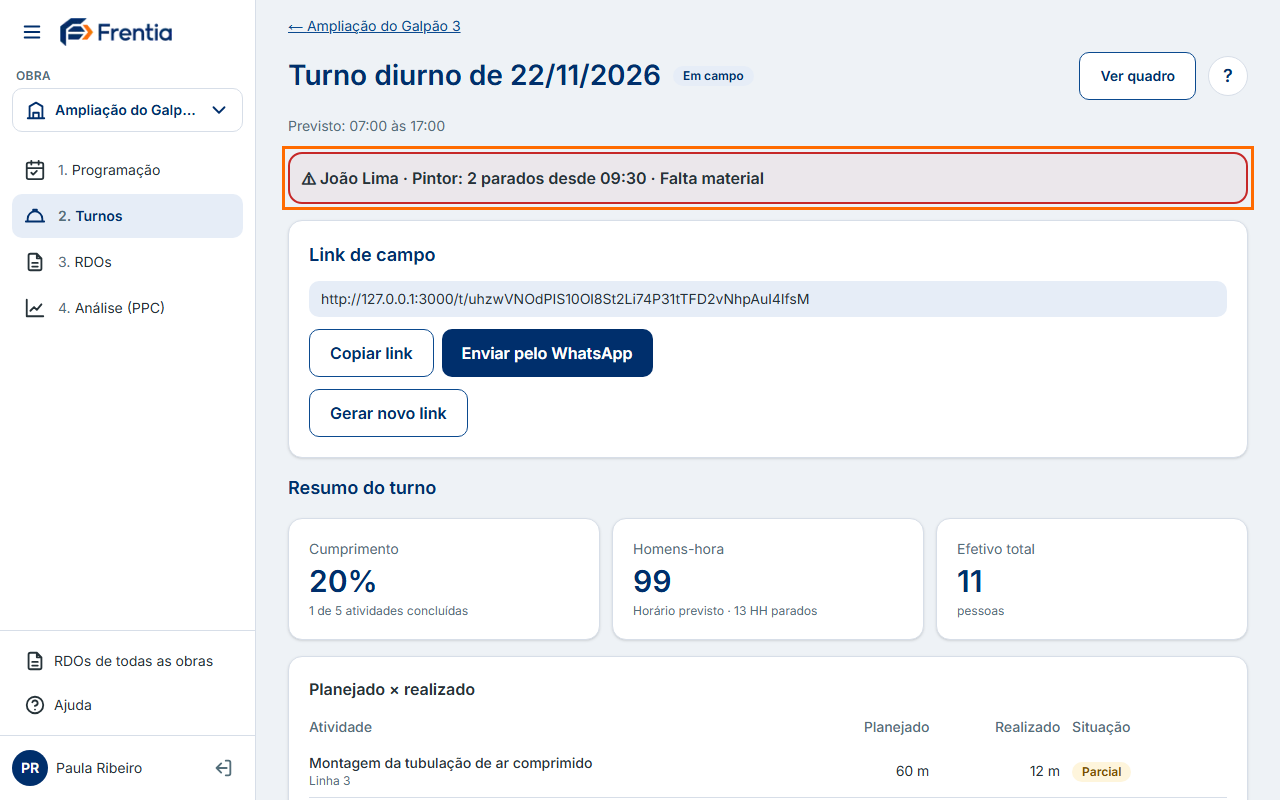
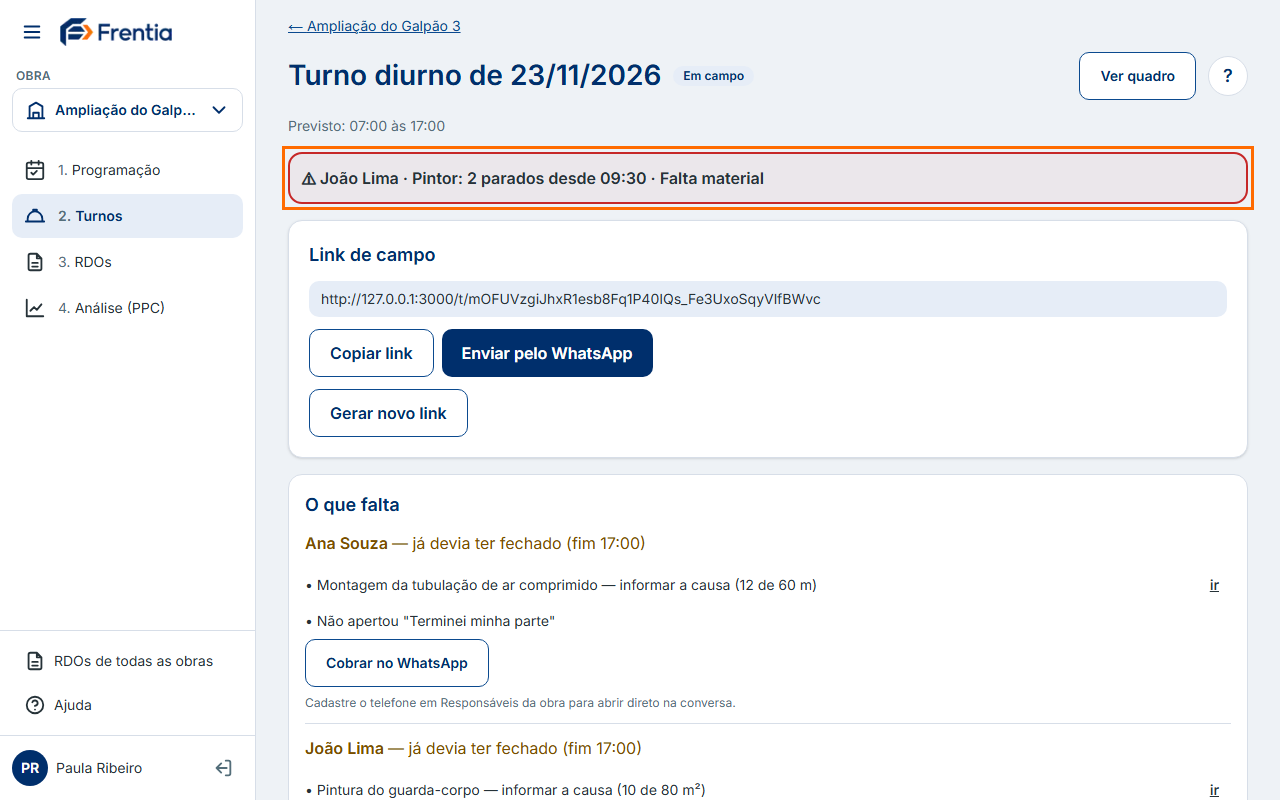
docs(ajuda): o que falta no turno

diff --git a/lib/ajuda/conteudo/durante-o-turno.ts b/lib/ajuda/conteudo/durante-o-turno.ts
@@ -34,6 +34,20 @@ export const duranteOTurno: Capitulo = {
       },
     },
     {
+      id: "o-que-falta",
+      titulo: "Veja o que falta e cobre o responsável",
+      texto: [
+        "No alto da tela do turno, \"O que falta\" mostra, por responsável, o que ainda não foi registrado: atividade sem lançamento, texto contado à IA que não foi lançado e, depois do fim do turno (ou quando a equipe toca \"Terminei minha parte\"), causa não informada e o \"Terminei\" que faltou.",
+        "Enquanto o turno está em andamento, o grupo aparece como \"em andamento\": é normal ainda faltar. Depois do fim, fica em destaque. Toque em \"ir\" para ir direto à atividade.",
+        "\"Cobrar no WhatsApp\" abre a conversa com o responsável e uma mensagem pronta com o que falta e o link de campo dele. Para abrir direto no número, cadastre o telefone em Responsáveis da obra.",
+      ],
+      captura: {
+        alt: "Bloco O que falta no turno, com as pendências por responsável e o botão Cobrar no WhatsApp",
+        alvo: { papel: "region", nome: "O que falta" },
+        dispositivo: "computador",
+      },
+    },
+    {
       id: "servico-extra",
       titulo: "Lance um serviço extra",
       texto: [

diff --git a/lib/ajuda/novidades.ts b/lib/ajuda/novidades.ts
@@ -3,6 +3,11 @@ import type { Novidade } from "./tipos";
 
 export const NOVIDADES: Novidade[] = [
   {
+    data: "2026-11-23",
+    texto: "O que falta: no turno, veja por responsável o que ainda não foi registrado e cobre pelo WhatsApp com um toque.",
+    href: "/ajuda/durante-o-turno#o-que-falta",
+  },
+  {
     data: "2026-11-22",
     texto: "Conte como foi o dia: no link de campo, escreva ou dite e a IA organiza o lançamento para você conferir antes de gravar.",
     href: "/ajuda/campo#contar-dia",

diff --git a/tests/manual/capturas.spec.ts b/tests/manual/capturas.spec.ts
@@ -175,6 +175,7 @@ test("capturas do manual", async ({ browser, page: pl, request }) => {
   // ---------- Durante o turno (planejador) ----------
   await pl.goto(turnoUrl);
   await fotografar(pl, "durante-o-turno", "paradas");
+  await fotografar(pl, "durante-o-turno", "o-que-falta");
   await fotografar(pl, "durante-o-turno", "servico-extra");
   await pl.goto(`${obraUrl}/quadro?turno=${turnoId}`);
   await fotografar(pl, "durante-o-turno", "quadro");
